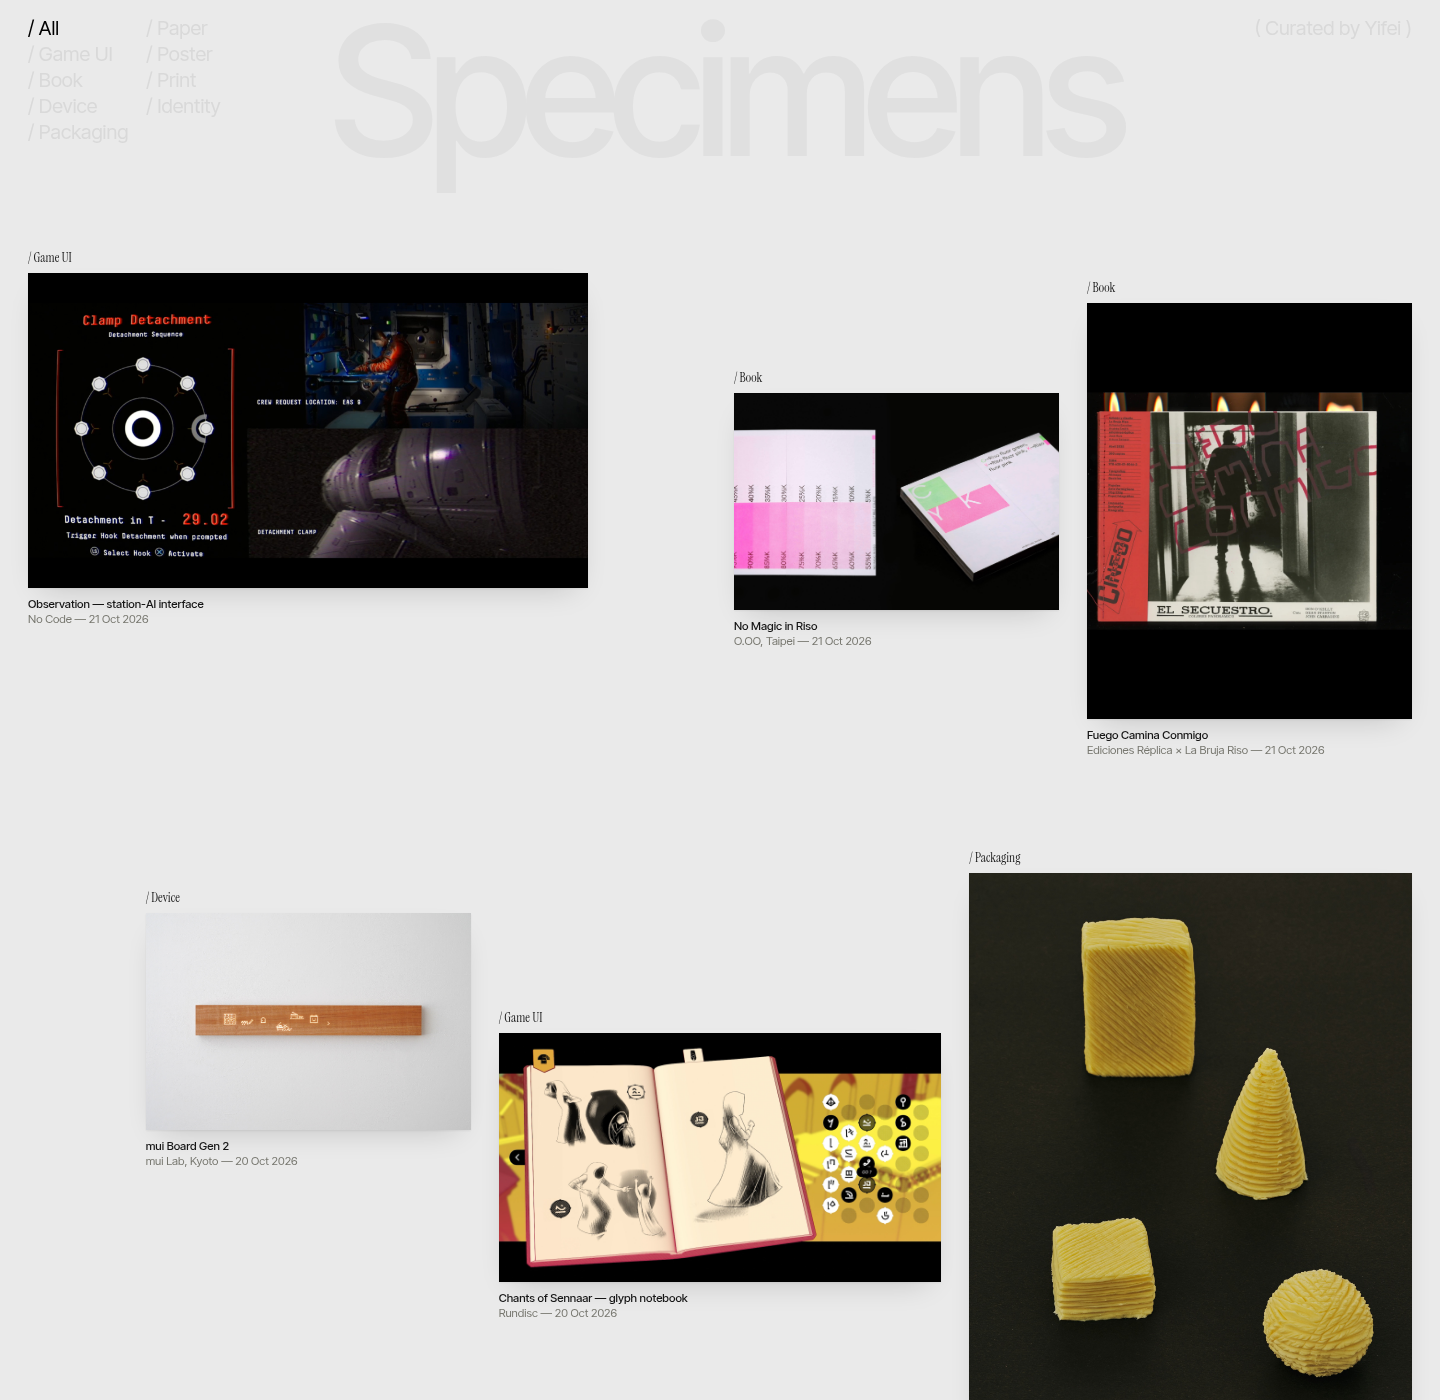
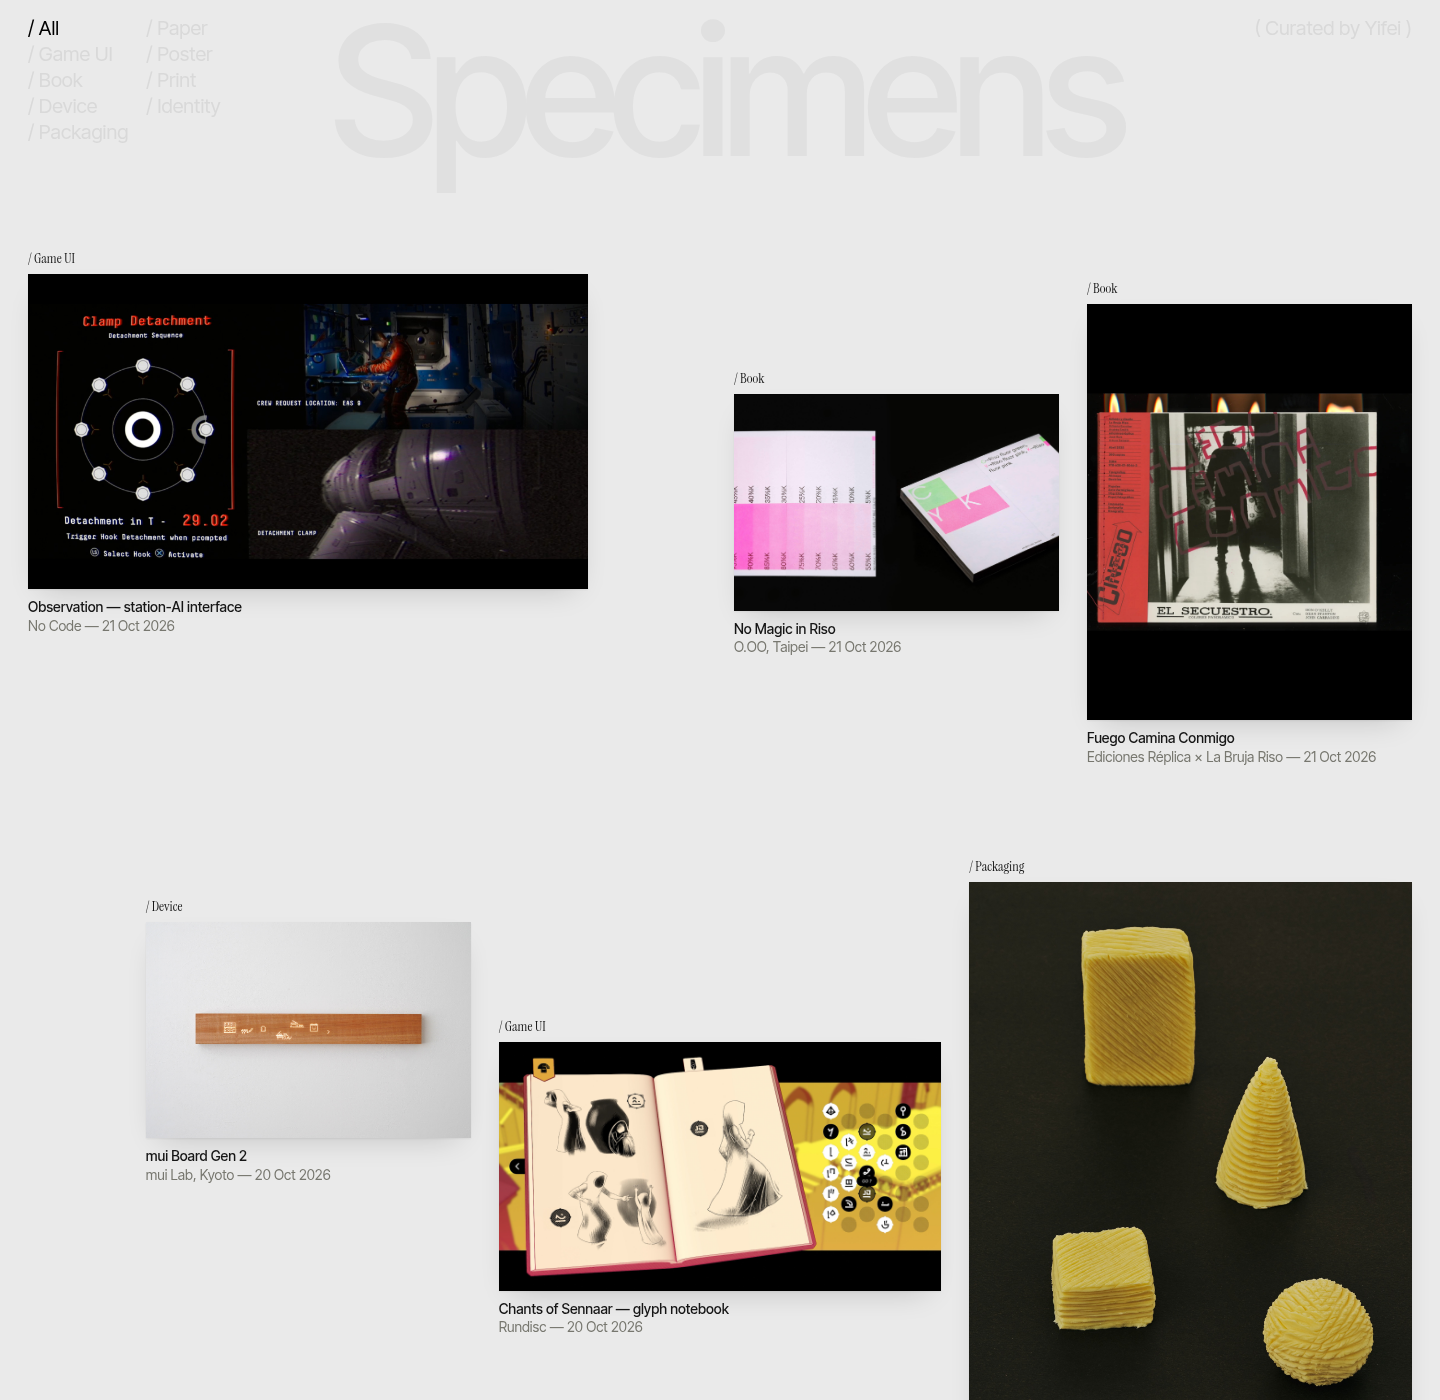
Min 14px text, remove dead meta/footer CSS

diff --git a/index.html b/index.html
@@ -6,7 +6,6 @@
 *{box-sizing:border-box;margin:0}body{background:var(--bg);color:var(--ink);font-family:"Inter Tight",Helvetica,sans-serif;-webkit-font-smoothing:antialiased}
 a{color:inherit;text-decoration:none}
 header{padding:22px 28px 0}
-.meta{display:flex;justify-content:space-between;font-size:11px;letter-spacing:.02em;text-transform:uppercase;padding-bottom:10px;border-bottom:1px solid var(--rule)}
 h1{font-weight:500;font-size:clamp(56px,11vw,180px);letter-spacing:-.055em;line-height:.86;padding:18px 0 14px;border-bottom:1px solid var(--rule)}
 .sub{display:flex;justify-content:space-between;font-family:"Instrument Serif",serif;font-size:17px;padding:10px 0;border-bottom:1px solid var(--rule)}
 .plate{position:relative;padding:80px 28px 40px;display:grid;grid-template-columns:repeat(12,1fr);column-gap:28px;row-gap:90px;align-items:start}
@@ -16,20 +15,19 @@ h1{font-weight:500;font-size:clamp(56px,11vw,180px);letter-spacing:-.055em;line-
 .card:hover img{transform:translateY(-4px)}
 .lab{font-family:"Instrument Serif",serif;font-size:14px;margin-bottom:7px;display:flex;gap:10px}
 .lab i{color:var(--mute)}
-.cap{margin-top:9px;font-size:11.5px;line-height:1.35}.cap b{font-weight:500;display:block}.cap span{color:var(--mute)}
+.cap{margin-top:9px;font-size:14px;line-height:1.35}.cap b{font-weight:500;display:block}.cap span{color:var(--mute)}
 .index{margin:40px 28px 0;border-top:1px solid var(--rule);display:grid;grid-template-columns:repeat(auto-fill,minmax(260px,1fr));column-gap:28px;padding:14px 0 60px}
 .index a{display:grid;grid-template-columns:62px 1fr auto;font-family:"Instrument Serif",serif;font-size:16px;padding:6px 0;border-bottom:1px solid #16161618}
-.index a:hover{color:#5a5a52}.index em{color:var(--mute);font-size:13px}
-footer{padding:0 28px 28px;font-size:11px;text-transform:uppercase;color:var(--mute);display:flex;justify-content:space-between}
+.index a:hover{color:#5a5a52}.index em{color:var(--mute);font-size:14px}
 @media(max-width:760px){.plate{grid-template-columns:repeat(6,1fr);row-gap:56px;column-gap:16px;padding:48px 16px}.card{grid-column:span 6!important;margin:0!important}.card.s{grid-column:span 3!important}header{padding:16px}.index{margin:20px 16px}}
 header{position:sticky;top:0;z-index:5;padding:14px 28px 0;text-align:center;pointer-events:none}
 h1{font-weight:500;font-size:clamp(64px,12.5vw,205px);letter-spacing:-.055em;line-height:.86;padding:0 0 0 .055em;border:0;color:#e0e0e0;text-align:center}
-.credit{position:absolute;top:16px;right:28px;font-size:calc(clamp(56px,11vw,180px)*.126);color:#d9d9d9;font-weight:400;pointer-events:none}
-.tag{font-size:13px}
+.credit{position:absolute;top:16px;right:28px;font-size:max(14px,calc(clamp(56px,11vw,180px)*.126));color:#d9d9d9;font-weight:400;pointer-events:none}
+.tag{font-size:14px}
 .card{opacity:0;transform:translateY(28px);transition:opacity .9s ease,transform .9s cubic-bezier(.2,.7,.2,1)}.card.in{opacity:1;transform:none}
 @media(prefers-reduced-motion:reduce){.card{opacity:1;transform:none;transition:none}}
 .plate,.index{position:relative;z-index:6}
-.filters{position:absolute;top:16px;left:28px;display:grid;grid-auto-flow:column;justify-items:start;row-gap:2px;column-gap:18px;font-size:calc(clamp(56px,11vw,180px)*.126);pointer-events:auto;text-align:left}
+.filters{position:absolute;top:16px;left:28px;display:grid;grid-auto-flow:column;justify-items:start;row-gap:2px;column-gap:18px;font-size:max(14px,calc(clamp(56px,11vw,180px)*.126));pointer-events:auto;text-align:left}
 .filters button{all:unset;cursor:pointer;color:#d9d9d9;transition:color .25s}
 .filters button:hover,.filters button.on{color:#000}
 .plate{pointer-events:none}.card{pointer-events:auto}
@@ -39,8 +37,8 @@ h1{font-weight:500;font-size:clamp(64px,12.5vw,205px);letter-spacing:-.055em;lin
 @media(max-width:700px){
 header{display:flex;flex-direction:column;align-items:center;padding:12px 0 0}
 header h1{order:1;font-size:clamp(56px,17vw,120px)}
-.credit{order:2;position:static;font-size:12px;margin-top:6px;text-align:center}
-.filters{order:3;position:static;display:flex!important;grid-template-rows:none!important;flex-wrap:nowrap;gap:14px;overflow-x:auto;-webkit-overflow-scrolling:touch;scrollbar-width:none;width:100%;padding:10px 16px 4px;font-size:12px;white-space:nowrap}
+.credit{order:2;position:static;font-size:14px;margin-top:6px;text-align:center}
+.filters{order:3;position:static;display:flex!important;grid-template-rows:none!important;flex-wrap:nowrap;gap:14px;overflow-x:auto;-webkit-overflow-scrolling:touch;scrollbar-width:none;width:100%;padding:10px 16px 4px;font-size:14px;white-space:nowrap}
 .filters::-webkit-scrollbar{display:none}
 .filters button{flex:0 0 auto}
 .plate{padding-top:28px}
